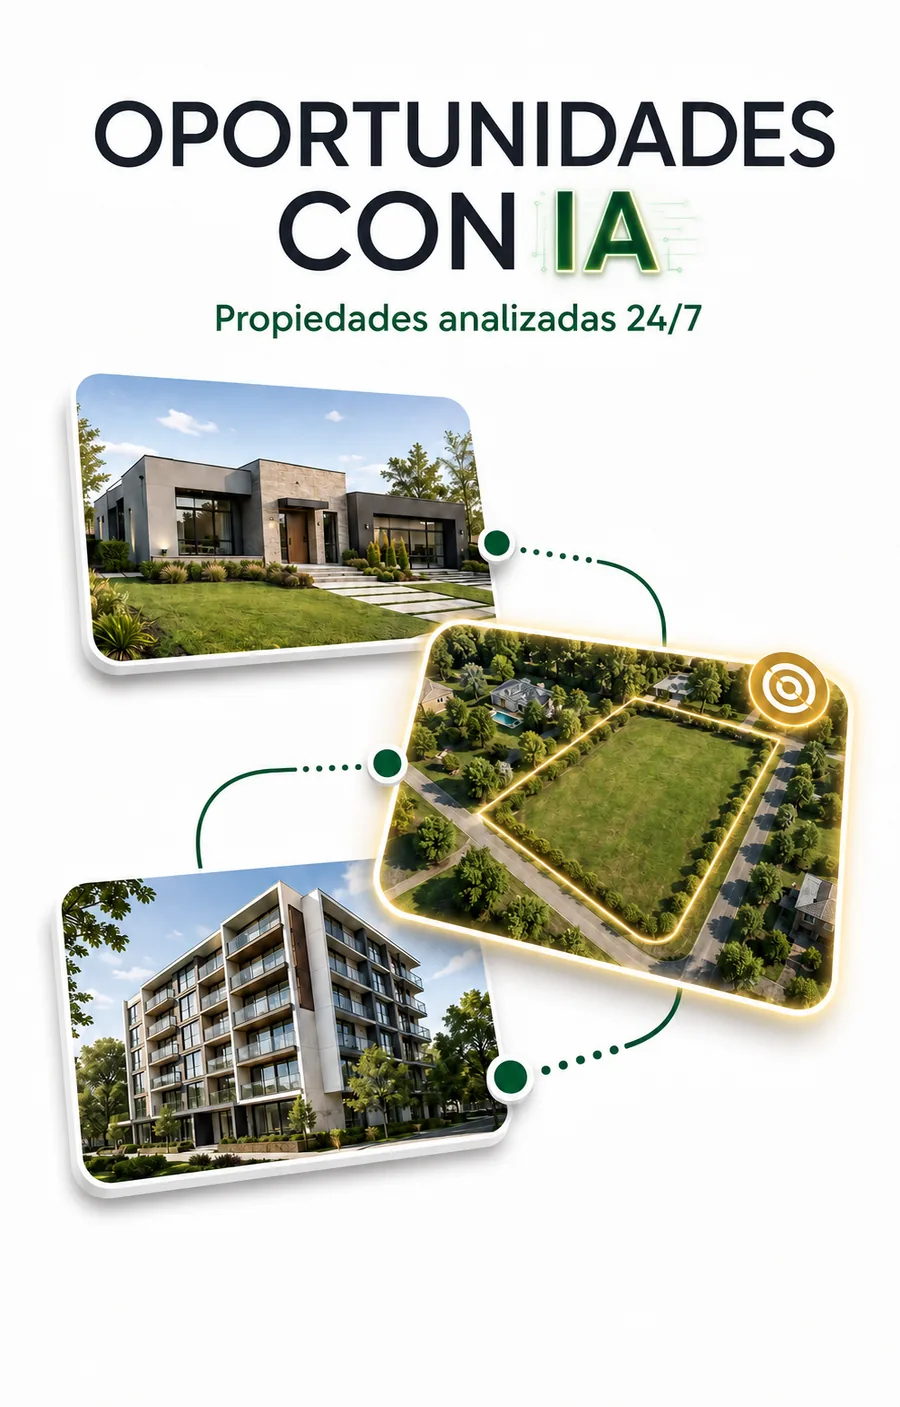
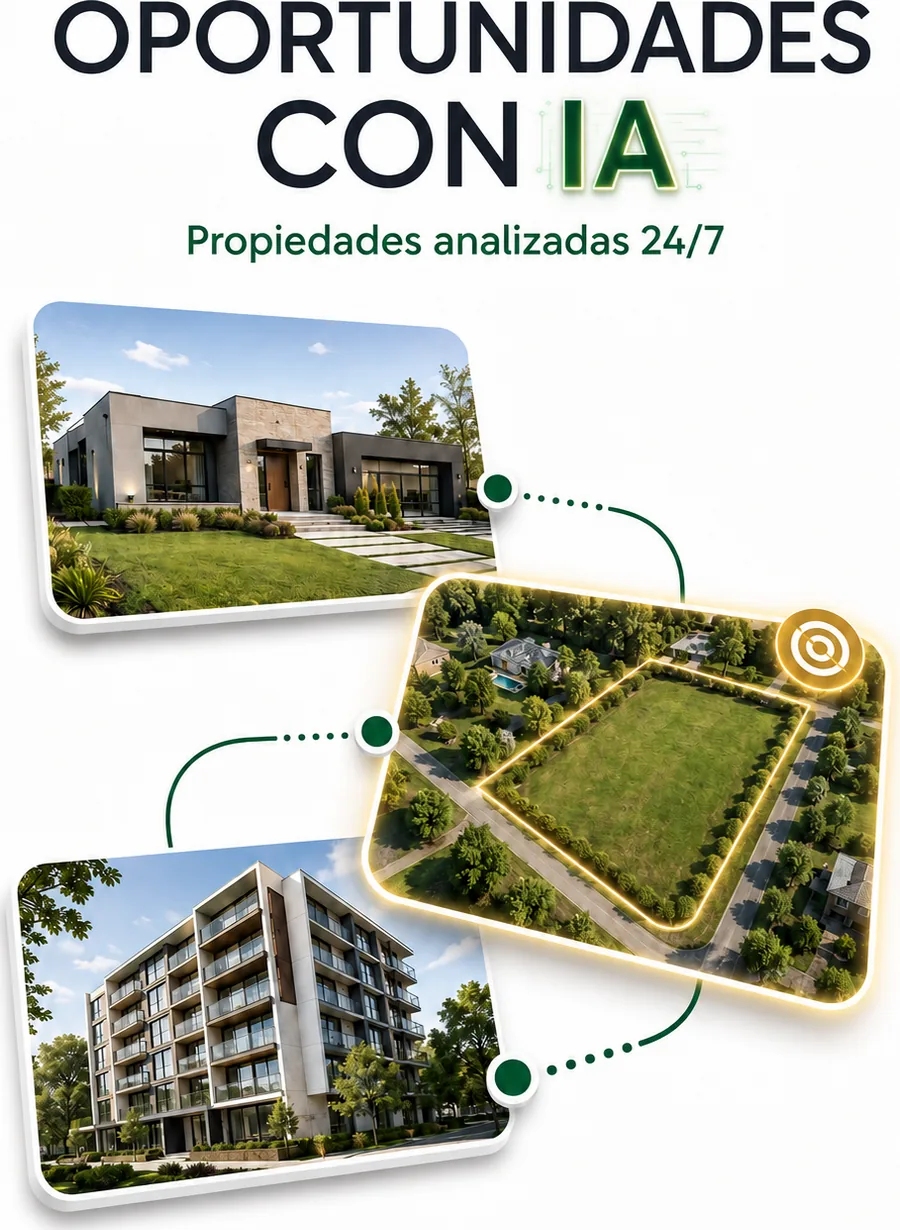
refactor(popup): placa completa (márgenes recortados) + pasos en un renglón
Propuesta de David: mostrar la imagen entera pero con los márgenes blancos
recortados, y simplificar los 4 pasos IA a un solo renglón (icono + label
corto, sin descripciones). Imagen recortada con sharp.trim (1003x1568 ->
900x1230) y la placa va a todo el ancho; el modal scrollea internamente para
llegar al formulario. Pendiente: ajuste fino de escala según su OK.

diff --git a/src/components/OportunidadesPopup.tsx b/src/components/OportunidadesPopup.tsx
@@ -21,27 +21,12 @@ const MOBILE_SCROLL_Y = 280
 // Rutas internas/flujos donde el popup no corresponde.
 const HIDE_PREFIXES = ['/agentes', '/admin', '/school', '/seleccion', '/autorizacion', '/v/', '/guia/leer', '/propiedades/']
 
+// Pasos simplificados a un solo renglón: icono + label corto (sin descripción).
 const selectionSteps = [
-  {
-    title: 'IA detectó',
-    body: 'Propiedades con señales de buen precio o potencial.',
-    Icon: Cpu,
-  },
-  {
-    title: 'Comparamos',
-    body: 'Analizamos precio/m² y referencias en la zona.',
-    Icon: BarChart3,
-  },
-  {
-    title: 'Cruzamos datos',
-    body: 'Ubicación, metros, tipología y contexto de mercado.',
-    Icon: MapPin,
-  },
-  {
-    title: 'Revisión humana',
-    body: 'El equipo verifica y aprueba lo que realmente vale.',
-    Icon: UserRound,
-  },
+  { title: 'IA detecta', Icon: Cpu },
+  { title: 'Comparamos', Icon: BarChart3 },
+  { title: 'Cruzamos', Icon: MapPin },
+  { title: 'Revisión', Icon: UserRound },
 ]
 
 export default function OportunidadesPopup() {
@@ -152,8 +137,10 @@ export default function OportunidadesPopup() {
           left: 50%;
           top: 50%;
           z-index: 55;
-          width: min(430px, calc(100vw - 40px));
-          max-height: min(88dvh, 780px);
+          display: flex;
+          flex-direction: column;
+          width: min(400px, calc(100vw - 40px));
+          max-height: min(90dvh, 880px);
           overflow: hidden;
           border-radius: 22px;
           background: #fff;
@@ -162,18 +149,29 @@ export default function OportunidadesPopup() {
           transform: translate(-50%, -50%);
           animation: si-oport-in .45s cubic-bezier(.22,1,.36,1);
         }
+        .si-oport-scroll {
+          flex: 1 1 auto;
+          min-height: 0;
+          overflow-y: auto;
+          -webkit-overflow-scrolling: touch;
+        }
         .si-oport-art {
-          height: min(300px, calc(88dvh - 300px));
-          min-height: 232px;
+          line-height: 0;
+          background: #fff;
+        }
+        .si-oport-art img {
+          display: block;
+          width: 100%;
+          height: auto;
         }
         .si-oport-body {
-          padding: 14px;
+          padding: 0 14px 14px;
         }
         .si-oport-steps {
           border: 1px solid #DCEBE2;
           border-radius: 15px;
           background: #FBFEFC;
-          padding: 10px 10px 9px;
+          padding: 9px 8px 10px;
         }
         .si-oport-steps-head {
           display: flex;
@@ -198,23 +196,23 @@ export default function OportunidadesPopup() {
           font-weight: 700;
           line-height: 1.15;
         }
-        .si-oport-steps-grid {
-          display: grid;
-          grid-template-columns: repeat(2, minmax(0, 1fr));
-          column-gap: 9px;
-          row-gap: 8px;
+        .si-oport-steps-row {
+          display: flex;
+          gap: 4px;
         }
         .si-oport-step {
-          display: grid;
-          grid-template-columns: 26px 1fr;
-          gap: 7px;
-          align-items: start;
+          flex: 1 1 0;
           min-width: 0;
+          display: flex;
+          flex-direction: column;
+          align-items: center;
+          gap: 5px;
+          text-align: center;
         }
         .si-oport-step-icon {
           display: inline-flex;
-          width: 26px;
-          height: 26px;
+          width: 30px;
+          height: 30px;
           align-items: center;
           justify-content: center;
           border-radius: 999px;
@@ -228,31 +226,19 @@ export default function OportunidadesPopup() {
           margin: 0;
           color: #151515;
           font-family: var(--font-poppins), 'Poppins', system-ui, sans-serif;
-          font-size: 10.5px;
+          font-size: 10px;
           font-weight: 800;
-          line-height: 1.12;
-        }
-        .si-oport-step-body {
-          display: block;
-          margin: 2px 0 0;
-          color: #4B5563;
-          font-family: var(--font-raleway), 'Raleway', system-ui, sans-serif;
-          font-size: 9.5px;
-          font-weight: 600;
-          line-height: 1.18;
+          line-height: 1.1;
+          white-space: nowrap;
         }
         @media (max-width: 640px) {
           .si-oport-popup {
             width: min(340px, calc(100vw - 42px));
-            max-height: min(90dvh, 700px);
+            max-height: min(90dvh, 760px);
             border-radius: 20px;
           }
-          .si-oport-art {
-            height: min(26dvh, 220px);
-            min-height: 176px;
-          }
           .si-oport-body {
-            padding: 12px;
+            padding: 0 12px 12px;
           }
           .si-oport-steps {
             padding: 9px 9px 8px;
@@ -264,23 +250,12 @@ export default function OportunidadesPopup() {
           .si-oport-steps-title {
             font-size: 10.5px;
           }
-          .si-oport-steps-grid {
-            column-gap: 7px;
-            row-gap: 7px;
-          }
-          .si-oport-step {
-            grid-template-columns: 24px 1fr;
-            gap: 6px;
-          }
           .si-oport-step-icon {
-            width: 24px;
-            height: 24px;
+            width: 28px;
+            height: 28px;
           }
           .si-oport-step-title {
-            font-size: 9.6px;
-          }
-          .si-oport-step-body {
-            font-size: 8.8px;
+            font-size: 9.4px;
           }
           .si-oport-body form {
             gap: 8px;
@@ -309,13 +284,15 @@ export default function OportunidadesPopup() {
           <X size={16} strokeWidth={2.3} />
         </button>
 
-        <div className="si-oport-art relative bg-white">
+        <div className="si-oport-scroll">
+        <div className="si-oport-art">
           <Image
             src="/oportunidades-ia.webp"
             alt="Oportunidades con IA — propiedades analizadas 24/7 por SI INMOBILIARIA"
-            fill
-            sizes="(max-width: 640px) 340px, 430px"
-            className="h-full w-full object-cover object-top"
+            width={900}
+            height={1407}
+            sizes="(max-width: 640px) 340px, 400px"
+            className="block w-full h-auto"
           />
         </div>
 
@@ -335,16 +312,13 @@ export default function OportunidadesPopup() {
                 <div className="si-oport-steps-head">
                   <h3 className="si-oport-steps-title">Así seleccionamos cada oportunidad</h3>
                 </div>
-                <div className="si-oport-steps-grid">
-                  {selectionSteps.map(({ title, body, Icon }) => (
+                <div className="si-oport-steps-row">
+                  {selectionSteps.map(({ title, Icon }) => (
                     <div key={title} className="si-oport-step">
                       <span className="si-oport-step-icon" aria-hidden="true">
-                        <Icon size={15} strokeWidth={2.35} />
+                        <Icon size={16} strokeWidth={2.35} />
                       </span>
-                      <span>
-                        <strong className="si-oport-step-title">{title}</strong>
-                        <span className="si-oport-step-body">{body}</span>
-                      </span>
+                      <strong className="si-oport-step-title">{title}</strong>
                     </div>
                   ))}
                 </div>
@@ -385,6 +359,7 @@ export default function OportunidadesPopup() {
               )}
             </form>
           )}
+        </div>
         </div>
       </aside>
     </>
